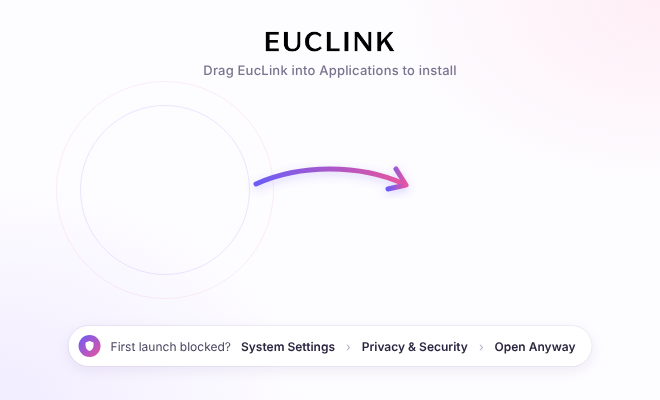
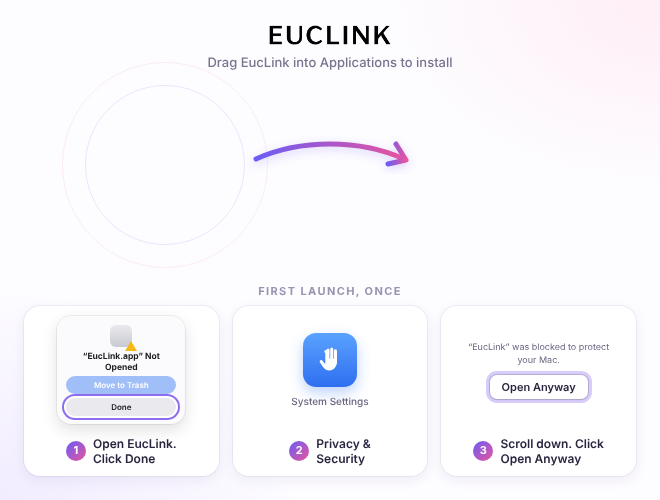
Always ask for Input Monitoring, and show the first-launch steps in the disk image
EucLink only asked macOS for Input Monitoring when macOS reported it had never
asked. After a reset or an earlier Don't Allow it reports a refusal instead, so
EucLink opened System Settings without asking and never appeared in the list.
Allow Input Monitoring now always asks, through IOHIDRequestAccess,
CGRequestListenEventAccess and a listen-only event tap that is closed at once,
then opens the list. After Reset and Try Again the request runs by itself, and
once the switch is on the guide restarts EucLink by itself.

The disk image window is taller, so its bottom row is no longer cut off, and it
now shows the three first-launch steps: Done in the Not Opened warning, Privacy
& Security, Open Anyway. The README shows the same picture.

diff --git a/dmg/background.html b/dmg/background.html
@@ -1,32 +1,54 @@
 <!doctype html><html><head><meta charset="utf-8"><style>
 *{box-sizing:border-box}html,body{margin:0}
-body{width:660px;height:400px;font-family:Inter,-apple-system,sans-serif;color:#2b2540;overflow:hidden;
+body{width:660px;height:500px;font-family:Inter,-apple-system,sans-serif;color:#2b2540;overflow:hidden;position:relative;
   background:radial-gradient(420px 300px at 0% 100%,#f1ecff 0,rgba(241,236,255,0) 70%),radial-gradient(380px 260px at 100% 0%,#ffeef6 0,rgba(255,238,246,0) 70%),#fdfcff}
-.logo{position:absolute;left:50%;top:30px;transform:translateX(-50%);width:132px}
-.sub{position:absolute;top:62px;width:100%;text-align:center;font-size:13px;color:#7a7390;font-weight:500;letter-spacing:.2px}
-.rings{position:absolute;left:165px;top:190px}
+.logo{position:absolute;left:50%;top:24px;transform:translateX(-50%);width:124px}
+.sub{position:absolute;top:54px;width:100%;text-align:center;font-size:13px;color:#7a7390;font-weight:500}
+.rings{position:absolute;left:165px;top:165px}
 .rings i{position:absolute;border-radius:50%;border:1.5px solid;transform:translate(-50%,-50%)}
-.hint{position:absolute;left:50%;top:326px;transform:translateX(-50%);display:flex;align-items:center;gap:10px;
-  padding:9px 16px 9px 10px;border-radius:999px;background:#fff;box-shadow:0 4px 14px rgba(60,30,120,.08),0 0 0 1px rgba(60,30,120,.06);
-  font-size:12px;white-space:nowrap;color:#4a4460}
-.hint b{font-weight:600;color:#2b2540}
-.hint .ic{width:22px;height:22px;border-radius:50%;background:linear-gradient(135deg,#6B5CF5,#E8549E);display:grid;place-items:center}
-.sep{color:#b3acc6;margin:0 1px}
+.sec{position:absolute;top:284px;width:100%;text-align:center;font-size:11px;font-weight:700;letter-spacing:1.4px;color:#9a93b0}
+#strip{position:absolute;left:24px;top:306px;width:612px;display:flex;gap:14px}
+.card{flex:1;height:170px;background:#fff;border-radius:16px;box-shadow:0 4px 14px rgba(60,30,120,.07),0 0 0 1px rgba(60,30,120,.06);
+  display:flex;flex-direction:column;align-items:center;padding:12px 10px 10px}
+.art{height:104px;width:100%;display:flex;align-items:center;justify-content:center}
+.cap{display:flex;align-items:center;gap:7px;font-size:12px;font-weight:600;margin-top:auto;text-align:left;line-height:1.25}
+.n{flex:none;width:20px;height:20px;border-radius:50%;background:linear-gradient(135deg,#6B5CF5,#E8549E);color:#fff;font-size:11px;font-weight:700;display:grid;place-items:center}
+/* mini warning dialog */
+.dlg{width:128px;background:#fbfbfd;border-radius:14px;box-shadow:0 6px 16px rgba(0,0,0,.12),0 0 0 1px rgba(0,0,0,.06);padding:9px 9px 8px;display:flex;flex-direction:column;align-items:center;gap:4px}
+.lock{width:22px;height:22px;border-radius:6px;background:linear-gradient(#e9e9ee,#c9c9d1);position:relative}
+.lock:after{content:"";position:absolute;right:-5px;bottom:-4px;border-left:6px solid transparent;border-right:6px solid transparent;border-bottom:10px solid #f5b915}
+.dt{font-size:8.5px;font-weight:700;color:#1d1d1f;text-align:center;line-height:1.25}
+.db{width:100%;border-radius:999px;font-size:8px;font-weight:600;text-align:center;padding:4px 0}
+.trash{background:#3478f6;color:#fff;opacity:.45}
+.done{background:#e9e9ee;color:#1d1d1f;box-shadow:0 0 0 2px #fff,0 0 0 4px #8E6CF0}
+/* privacy icon */
+.pv{display:flex;flex-direction:column;align-items:center;gap:8px}
+.pvi{width:54px;height:54px;border-radius:13px;background:linear-gradient(#5aa2ff,#2f6ff0);display:grid;place-items:center;box-shadow:0 6px 14px rgba(47,111,240,.3)}
+.path{font-size:10px;color:#6b6580;font-weight:500}
+/* open anyway */
+.oa{display:flex;flex-direction:column;align-items:center;gap:9px}
+.msg{font-size:9px;color:#6b6580;max-width:150px;text-align:center;line-height:1.35}
+.btn{font-size:11px;font-weight:600;background:#fff;border-radius:7px;padding:5px 12px;box-shadow:0 0 0 1px rgba(0,0,0,.14),0 1px 2px rgba(0,0,0,.08),0 0 0 4px rgba(142,108,240,.35)}
 </style></head><body>
 <img class="logo" src="../docs/images/logo.png">
 <div class="sub">Drag EucLink into Applications to install</div>
-<div class="rings">
-  <i style="width:170px;height:170px;border-color:rgba(142,108,240,.16)"></i>
-  <i style="width:218px;height:218px;border-color:rgba(232,84,158,.10)"></i>
-</div>
-<svg style="position:absolute;left:0;top:0" width="660" height="400">
+<div class="rings"><i style="width:160px;height:160px;border-color:rgba(142,108,240,.16)"></i><i style="width:206px;height:206px;border-color:rgba(232,84,158,.10)"></i></div>
+<svg style="position:absolute;left:0;top:0" width="660" height="300">
   <defs><linearGradient id="g" x1="0" x2="1"><stop offset="0" stop-color="#6B5CF5"/><stop offset="1" stop-color="#E8549E"/></linearGradient>
   <filter id="s" x="-20%" y="-50%" width="140%" height="200%"><feDropShadow dx="0" dy="3" stdDeviation="4" flood-color="#6B5CF5" flood-opacity=".25"/></filter></defs>
   <g filter="url(#s)" fill="none" stroke="url(#g)" stroke-width="5" stroke-linecap="round" stroke-linejoin="round">
-    <path d="M256 184 C 300 164, 360 164, 404 184"/>
-    <path d="M396 169 L406 185 L388 189"/>
+    <path d="M256 159 C 300 139, 360 139, 404 159"/><path d="M396 144 L406 160 L388 164"/>
   </g>
 </svg>
-<div class="hint"><div class="ic"><svg width="12" height="12" viewBox="0 0 24 24" fill="#fff"><path d="M12 2 4 5v6c0 5 3.4 9.6 8 11 4.6-1.4 8-6 8-11V5l-8-3z"/></svg></div>
-  First launch blocked?<b>System Settings</b><span class="sep">›</span><b>Privacy &amp; Security</b><span class="sep">›</span><b>Open Anyway</b></div>
+<div class="sec">FIRST LAUNCH, ONCE</div>
+<div id="strip">
+  <div class="card"><div class="art"><div class="dlg"><div class="lock"></div><div class="dt">“EucLink.app” Not Opened</div>
+      <div class="db trash">Move to Trash</div><div class="db done">Done</div></div></div>
+    <div class="cap"><span class="n">1</span><span>Open EucLink.<br>Click Done</span></div></div>
+  <div class="card"><div class="art"><div class="pv"><div class="pvi"><svg width="28" height="28" viewBox="0 0 24 24" fill="#fff"><path d="M9 3.5a1.3 1.3 0 0 1 2.6 0V11h.6V2.6a1.3 1.3 0 0 1 2.6 0V11h.6V4a1.3 1.3 0 0 1 2.6 0v9.5c0 4-2.7 7.5-6.6 7.5-2.4 0-4.2-1.2-5.5-3.2L3.3 14a1.3 1.3 0 0 1 2.1-1.5L7.4 15H8V6a1.3 1.3 0 0 1 1-2.5z"/></svg></div>
+      <div class="path">System Settings</div></div></div>
+    <div class="cap"><span class="n">2</span><span>Privacy &amp;<br>Security</span></div></div>
+  <div class="card"><div class="art"><div class="oa"><div class="msg">“EucLink” was blocked to protect your Mac.</div><div class="btn">Open Anyway</div></div></div>
+    <div class="cap"><span class="n">3</span><span>Scroll down. Click<br>Open Anyway</span></div></div>
+</div>
 </body></html>

diff --git a/Sources/AppState.swift b/Sources/AppState.swift
@@ -192,11 +192,15 @@ final class AppState: ObservableObject {
         }
     }
 
+    /// Always asks, because asking is what puts EucLink in the list in System Settings.
+    /// Then opens that list, unless macOS granted it straight away.
     func allowInputMonitoring() {
-        if inputMonitoringState == .notDetermined {
-            monitor.requestInputMonitoring()
-        } else {
-            openPrivacyPane("Privacy_ListenEvent")
+        monitor.requestInputMonitoring()
+        Task { @MainActor in
+            try? await Task.sleep(nanoseconds: 1_500_000_000)
+            if self.inputMonitoringState == .denied || self.inputMonitoringState == .notDetermined {
+                self.openPrivacyPane("Privacy_ListenEvent")
+            }
         }
     }
 
@@ -239,7 +243,24 @@ final class AppState: ObservableObject {
         let id = Bundle.main.bundleIdentifier ?? "local.euclink"
         for s in services { PermissionReset.run(s, bundleID: id) }
         monitor.log("Reset \(services.joined(separator: ", ")) and relaunched")
+        // After the restart, ask again without another click (see resumePermissionRequest).
+        if services.count == 1 { UserDefaults.standard.set(services[0], forKey: "pendingPermissionRequest") }
         relaunch()
+    }
+
+    /// Called at launch: finishes a Reset and Try Again by asking for the permission.
+    func resumePermissionRequest() {
+        guard let service = UserDefaults.standard.string(forKey: "pendingPermissionRequest") else { return }
+        UserDefaults.standard.removeObject(forKey: "pendingPermissionRequest")
+        Task { @MainActor in
+            try? await Task.sleep(nanoseconds: 1_000_000_000)
+            switch service {
+            case "ListenEvent": self.allowInputMonitoring()
+            case "Accessibility": self.allowAccessibility()
+            case "BluetoothAlways": self.allowBluetooth()
+            default: break
+            }
+        }
     }
 
     /// Copies the app to /Applications and relaunches from there. macOS ties the

diff --git a/Sources/Guide.swift b/Sources/Guide.swift
@@ -237,12 +237,17 @@ struct GuideStepView: View {
                     symbol: "keyboard", title: "Allow Input Monitoring",
                     why: "This lets EucLink read your button directly and keep its own key, such as Volume Up, from reaching other apps. EucLink only opens the button you chose.",
                     pane: "Input Monitoring", anchor: "Privacy_ListenEvent",
-                    instructions: ["Click Allow Input Monitoring below.",
-                                   "In the prompt, choose Open System Settings.",
-                                   "Turn EucLink on. If macOS asks to quit and reopen, choose Later and use Relaunch here."],
+                    instructions: ["Click Allow Input Monitoring below. System Settings opens.",
+                                   "Turn EucLink on. EucLink restarts by itself to use it.",
+                                   "Not in the list? Click + below the list, open Applications and choose EucLink."],
                     state: ctx.inputMonitoring, actions: actions, onAllow: actions.allowInputMonitoring,
                     onReset: ctx.inputMonitoring == .denied ? { actions.resetPermission("ListenEvent") } : nil)
                 grabStatus
+            }
+            // Input Monitoring only takes effect at launch, so restart as soon as it is on.
+            .onAppear { if ctx.inputMonitoring == .needsRelaunch { relaunchSoon() } }
+            .onChange(of: ctx.inputMonitoring) { state in
+                if state == .needsRelaunch { relaunchSoon() }
             }
         case .learn: learn
         case .action: chooseAction
@@ -270,6 +275,10 @@ struct GuideStepView: View {
         case .test: test
         case .done: done
         }
+    }
+
+    private func relaunchSoon() {
+        DispatchQueue.main.asyncAfter(deadline: .now() + 1.5) { actions.relaunch() }
     }
 
     // MARK: steps

diff --git a/Sources/Engine.swift b/Sources/Engine.swift
@@ -562,8 +562,20 @@ final class Monitor: NSObject, ObservableObject, CBCentralManagerDelegate {
         IOHIDCheckAccess(kIOHIDRequestTypeListenEvent) != kIOHIDAccessTypeDenied
     }
 
+    /// Asks for Input Monitoring in every way macOS listens to. IOHIDRequestAccess alone
+    /// sometimes neither prompts nor adds EucLink to the list in System Settings, for
+    /// example after a reset or an earlier Don't Allow. CGRequestListenEventAccess and an
+    /// attempt to create a listen-only event tap both make macOS record the request, so
+    /// EucLink appears in the list. The tap is closed at once and never reads an event.
     func requestInputMonitoring() {
         _ = IOHIDRequestAccess(kIOHIDRequestTypeListenEvent)
+        _ = CGRequestListenEventAccess()
+        if let tap = CGEvent.tapCreate(
+            tap: .cgSessionEventTap, place: .headInsertEventTap, options: .listenOnly,
+            eventsOfInterest: CGEventMask(1 << CGEventType.flagsChanged.rawValue),
+            callback: { _, _, event, _ in Unmanaged.passUnretained(event) }, userInfo: nil) {
+            CFMachPortInvalidate(tap)
+        }
         log("Input Monitoring requested")
         DispatchQueue.main.asyncAfter(deadline: .now() + 2) { [weak self] in
             self?.rebuildGrab()

diff --git a/Sources/Theme.swift b/Sources/Theme.swift
@@ -38,7 +38,7 @@ enum PermState: Equatable {
         case .granted: return "Allowed"
         case .notDetermined: return "Not allowed yet"
         case .denied: return "Turned off in System Settings"
-        case .needsRelaunch: return "Allowed. Relaunch EucLink to use it"
+        case .needsRelaunch: return "Allowed. Restarting EucLink to use it"
         }
     }
     var color: Color {

diff --git a/Sources/App.swift b/Sources/App.swift
@@ -68,6 +68,7 @@ final class AppDelegate: NSObject, NSApplicationDelegate, NSMenuDelegate, NSWind
         if !state.guideDone && monitor.bindings.isEmpty {
             showGuide()
         }
+        state.resumePermissionRequest()
     }
 
     /// Opening the app again from Finder or Spotlight shows the window.

diff --git a/dmg/settings.py b/dmg/settings.py
@@ -7,9 +7,11 @@ background = defines.get("background", "dmg/background.png")  # noqa: F821
 format = "UDZO"
 files = [app]
 symlinks = {"Applications": "/Applications"}
-icon_locations = {"EucLink.app": (165, 190), "Applications": (495, 190)}
+icon_locations = {"EucLink.app": (165, 165), "Applications": (495, 165)}
 
-window_rect = ((200, 120), (660, 400))
+# The background is 500 points tall. The extra 40 leave room for the title bar, so the
+# first-launch row at the bottom is never cut off.
+window_rect = ((200, 100), (660, 540))
 default_view = "icon-view"
 icon_size = 100
 text_size = 13

diff --git a/README.md b/README.md
@@ -97,7 +97,10 @@ rather not trust a download, [build it yourself](#build-it-yourself-any-mac).
 
 **Option A: Open Anyway (no Terminal)**
 
-1. Double-click **EucLink** in Applications. macOS says it cannot verify the app. Click **Done**.
+<p align="center"><img src="docs/images/first-launch.png" width="620" alt="First launch: click Done in the Not Opened warning, open System Settings > Privacy & Security, scroll down and click Open Anyway"></p>
+
+1. Double-click **EucLink** in Applications. macOS says "EucLink.app" Not Opened. Click **Done**,
+   not Move to Trash.
 2. Open **System Settings > Privacy & Security**.
 3. Scroll down to the message about EucLink and click **Open Anyway**.
 4. Enter your password, then click **Open Anyway** again.

diff --git a/CHANGELOG.md b/CHANGELOG.md
@@ -6,6 +6,19 @@ All notable changes to EucLink are listed here. The format follows
 
 ## [Unreleased]
 
+### Fixed
+
+- EucLink was sometimes missing from the Input Monitoring list, so people had to add it with +.
+  Allow Input Monitoring now always asks macOS, in every way macOS records, then opens the list.
+- The disk image window cut off its bottom row.
+
+### Changed
+
+- After Reset and Try Again, EucLink asks for the permission by itself after it restarts.
+- Once Input Monitoring is on, the guide restarts EucLink by itself.
+- The disk image window shows the three first-launch steps: Done, Privacy & Security,
+  Open Anyway. The README shows the same picture.
+
 ## [0.4.2] - 2026-11-22
 
 ### Added

diff --git a/.github/release-install.md b/.github/release-install.md
@@ -5,7 +5,7 @@ Apple silicon Macs, macOS 13 or later. On an Intel Mac, build EucLink from sourc
 1. Download **EucLink-VERSION-apple-silicon.dmg** below, open it, and drag EucLink into Applications.
    The .zip holds the same app if you prefer it.
 2. Open EucLink from Applications. macOS blocks the first launch, because EucLink is not signed
-   with a paid Apple developer account. Click **Done**.
+   with a paid Apple developer account. In the "Not Opened" warning, click **Done**, not Move to Trash.
 3. Open **System Settings > Privacy & Security**, scroll down, and click **Open Anyway**. Enter
    your password and click **Open Anyway** again. You only do this once.
 
